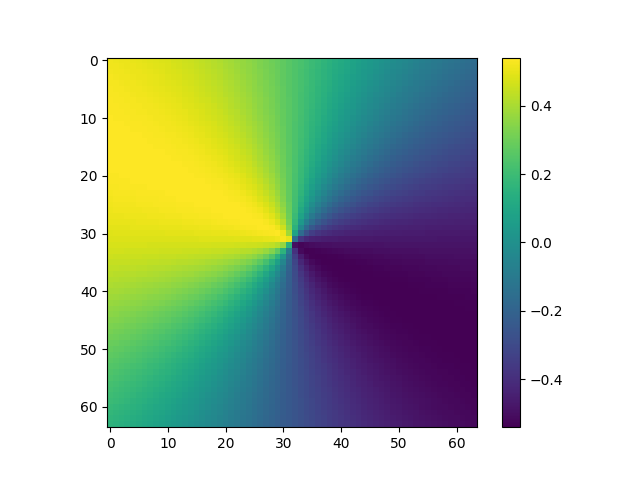
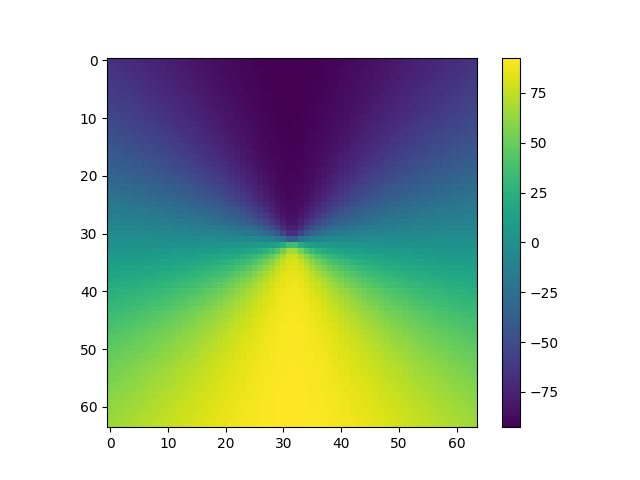
updated model

diff --git a/training_files/model.py b/training_files/model.py
@@ -17,11 +17,12 @@ class CAE(torch.nn.Module):
     
     """ PYTORCH CONVOLUTIONAL AUTOENCODER WITH A FUNCTIONAL DECODER """
                
-    def __init__(self, nodes, xx, yy):
+    def __init__(self, nodes, xx, yy, cube):
         super().__init__()
         
         self.xx = xx
         self.yy = yy
+        self.cube = cube
         
         self.nodes = nodes
         self.conv0 = torch.nn.Conv2d(120,16,3,1,padding=1)
@@ -77,15 +78,22 @@ class CAE(torch.nn.Module):
         vel = torch.sqrt(torch.pow(Vh, 2)*(1-((ah/radius_tensor)*torch.atan(radius_tensor/ah))))
         return vel
     
+    def de_regularise(self,tensor,minimum,maximum):
+        """ RECOVER THE PARAMETERS OUT OF THE NORMALISED RANGE [-1, 1] """
+        tensor+=1.
+        tensor*=(maximum-minimum)/2.
+        tensor+=minimum
+        return tensor
+    
     def cube_maker(self, x, vlim, shape, dv, v_size):
         """ GENERATE THE OUTPUT CUBE USING PYTORCH FUNCTIONS """ 
         
         ### Define the variables needed for cube modelling from input x
         pos = self.pos_ang(x[:,0].clone(),x[:,1].clone()) ### Poition angle
-        inc = x[:,2].clone() ### Inclination
-        a = torch.abs(x[:,3].clone()) ### SBprof scale length
-        ah = x[:,4].clone() ### DM halo scale length
-        Vh = x[:,5].clone() ### Maximum velocity allowed
+        inc = self.de_regularise(x[:,2].clone(),5,90) ### Inclination
+        a = self.de_regularise(x[:,3].clone(),0.1,0.4) ### SBprof scale length
+        ah = self.de_regularise(x[:,4].clone(),0.1,1) ### DM halo scale length
+        Vh = self.de_regularise(x[:,5].clone(),50,500) ### Maximum velocity allowed
         
         ### Create 2D arrays of x,y, and r values
         xx_t = self.xx*torch.cos(pos) + self.yy*torch.sin(pos)
@@ -97,16 +105,17 @@ class CAE(torch.nn.Module):
         
         ### Define the 2D V(r) given some 2D radius array
         vel = self.velocity_profile(rr_t, Vh, ah)  
-        vel *= vlim ### Scale up the velocities given some maximum velocity
-        vel *= -torch.cos(torch.atan2(xx_t,yy_t)+pos-pi)*torch.sin(inc) ### Convert to LOS velocities
+        vel *= -torch.cos(pi-torch.atan2(xx_t,yy_t)+pos)*torch.sin(inc) ### Convert to LOS velocities
         v = vel.clone() ### Velocity array is returned for later comparison to true velocity map
         vel = vel//dv ### Get channel indices of each pixel
         vel += int(v_size/2.) ### Redistribute channel values to lie in range 0-N
-        vel = torch.clamp(vel,0,v_size) ### Restrict to existing channel range         
-        
-        cube = torch.zeros((120,64,64)) ### Create an empty data cube
-        cube = torch.stack([*map(vel.__eq__,torch.unique(vel))]).type(torch.float)*(torch.stack([sbProf]*cube.shape[0])).type(torch.float) ### Fill cube
+        vel = torch.clamp(vel,0,v_size) ### Restrict to existing channel range 
+       
+        cube = self.cube.clone()
+        cube[torch.unique(vel).type(torch.LongTensor),:,:] = torch.stack([*map(vel.__eq__,torch.unique(vel))]).type(torch.float)*sbProf.type(torch.float) ### Fill cube
         cube = cube.unsqueeze(0) ### Resize cube
+        
+        cube = cube/torch.max(cube)
 
         return cube, v
         

diff --git a/training_files/functions.py b/training_files/functions.py
@@ -38,20 +38,18 @@ def return_cube(i):
         INCLINATIONS """
         
     pos_ang = random.uniform(0,360)
-    pos_ang = 90
-    b_over_a = random.uniform(0,1)
-    inc_ang = np.rad2deg(np.sqrt(1-(b_over_a)**2))
-    #inc_ang = random.uniform(5,90)
+    pos_ang = 0
+    inc_ang = random.uniform(5,90)
     scale_frac = random.uniform(0.1,0.4)
     ah = random.uniform(0.1,1)
-    Vh = random.uniform(50,500)
+    Vh = random.uniform(100,500)
     cube = cube_generator(scale_length_frac=scale_frac,pos_ang=pos_ang,
                           inc_ang=inc_ang,resolution=1000,ah=ah,Vh=Vh).cube_creation()
        
     cube/=cube.max()
     pos_ang = np.deg2rad(pos_ang)
         
-    return cube,np.cos(pos_ang),np.sin(pos_ang),inc_ang,scale_frac,Vh/500.
+    return cube,np.cos(pos_ang),np.sin(pos_ang),inc_ang,scale_frac,Vh
 
 #_____________________________________________________________________________#
 #_____________________________________________________________________________#
@@ -80,7 +78,7 @@ def recover_pos(theta1,theta2):
 #_____________________________________________________________________________#
     
 
-def plotter(vel, batch, out_dir):
+def plotter(vel, batch, batch2, out_dir):
     
     """ PLOTTING THE PREDICTED AND TRUE VELOCITY FIELDS """
     
@@ -90,9 +88,21 @@ def plotter(vel, batch, out_dir):
     plt.colorbar()
     plt.savefig(out_dir+'predicted.png')
     
+    batch2 = batch2.detach().cpu().numpy()
+    b = batch2[0,:,:,:]
+    b[b<3*np.std(b)]=np.nan
+    mom0 = np.nansum(b,axis=0)
+    channels = np.arange(-600,600,10)
+    num = np.nansum(np.transpose(b,(1,2,0))*channels,axis=2)
+    mom1 = num/mom0
+    plt.figure()
+    plt.imshow(mom1)
+    plt.colorbar()
+    plt.savefig(out_dir+'predicted2.png')
+    
     batch = batch.detach().cpu().numpy()
     b = batch[0,:,:,:]
-    b[b<np.std(b)]=np.nan
+    b[b<3*np.std(b)]=np.nan
     mom0 = np.nansum(b,axis=0)
     channels = np.arange(-600,600,10)
     num = np.nansum(np.transpose(b,(1,2,0))*channels,axis=2)

diff --git a/training_files/training.py b/training_files/training.py
@@ -77,7 +77,7 @@ def training(model:torch.nn.Module,batch_size,epochs,loss_function,initial_lr,
         
         running_loss = []
         
-        for _ in tqdm(range(5000)):
+        for _ in tqdm(range(100)):
             prediction, vel = model(batch)  
             loss = loss_function(prediction, batch)
             prediction.retain_grad()
@@ -88,12 +88,14 @@ def training(model:torch.nn.Module,batch_size,epochs,loss_function,initial_lr,
                   "\n Loss std: %f" % np.std(running_loss))
         print('_'*73)
         
+        print(torch.max(prediction), torch.max(batch))
+        
         #_________________________________________________________________________#
         #~~~ CREATE ANY PLOTS   ~~~~~~~~~~~~~~~~~~~~~~~~~~~~~~~~~~~~~~~~~~~~~~~~~~#
         #_________________________________________________________________________#
         
         if save_dir is not None:
-            plotter(vel, batch, save_directory)
+            plotter(vel, batch, prediction, save_directory)
             
         #_________________________________________________________________________#
         #~~~ PRINT AVERAGE LAYER GRADIENTS   ~~~~~~~~~~~~~~~~~~~~~~~~~~~~~~~~~~~~~#
@@ -131,11 +133,13 @@ yy, xx = torch.meshgrid(torch.arange(0 - 63/2., (63/2.)+1), torch.arange(0 - 63/
 xx = xx.to(device).to(torch.float)
 yy = yy.to(device).to(torch.float)
 
-model = CAE(6,xx,yy) # Instantiate the model with 6 learnable parameters
+cube = torch.zeros((120,64,64)).to(device).to(torch.float)
+
+model = CAE(6,xx,yy,cube) # Instantiate the model with 6 learnable parameters
 
 ### Train the model
 training(model,batch_size=1,epochs=1,loss_function=torch.nn.MSELoss(),
-         initial_lr=1e-3,save_dir=save_directory)
+         initial_lr=1e-4,save_dir=save_directory)
 
 
 
